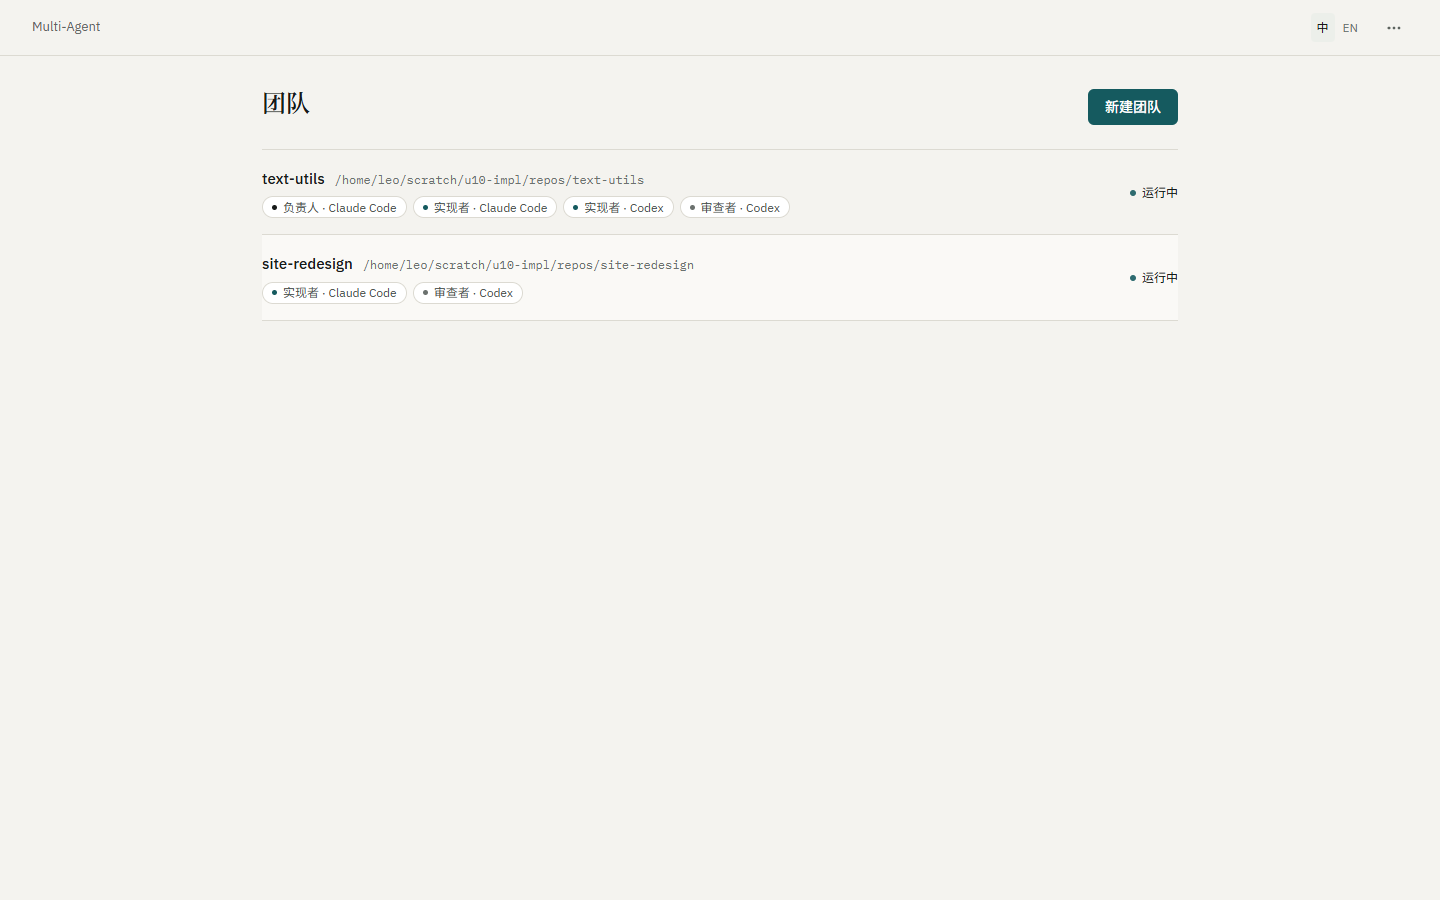
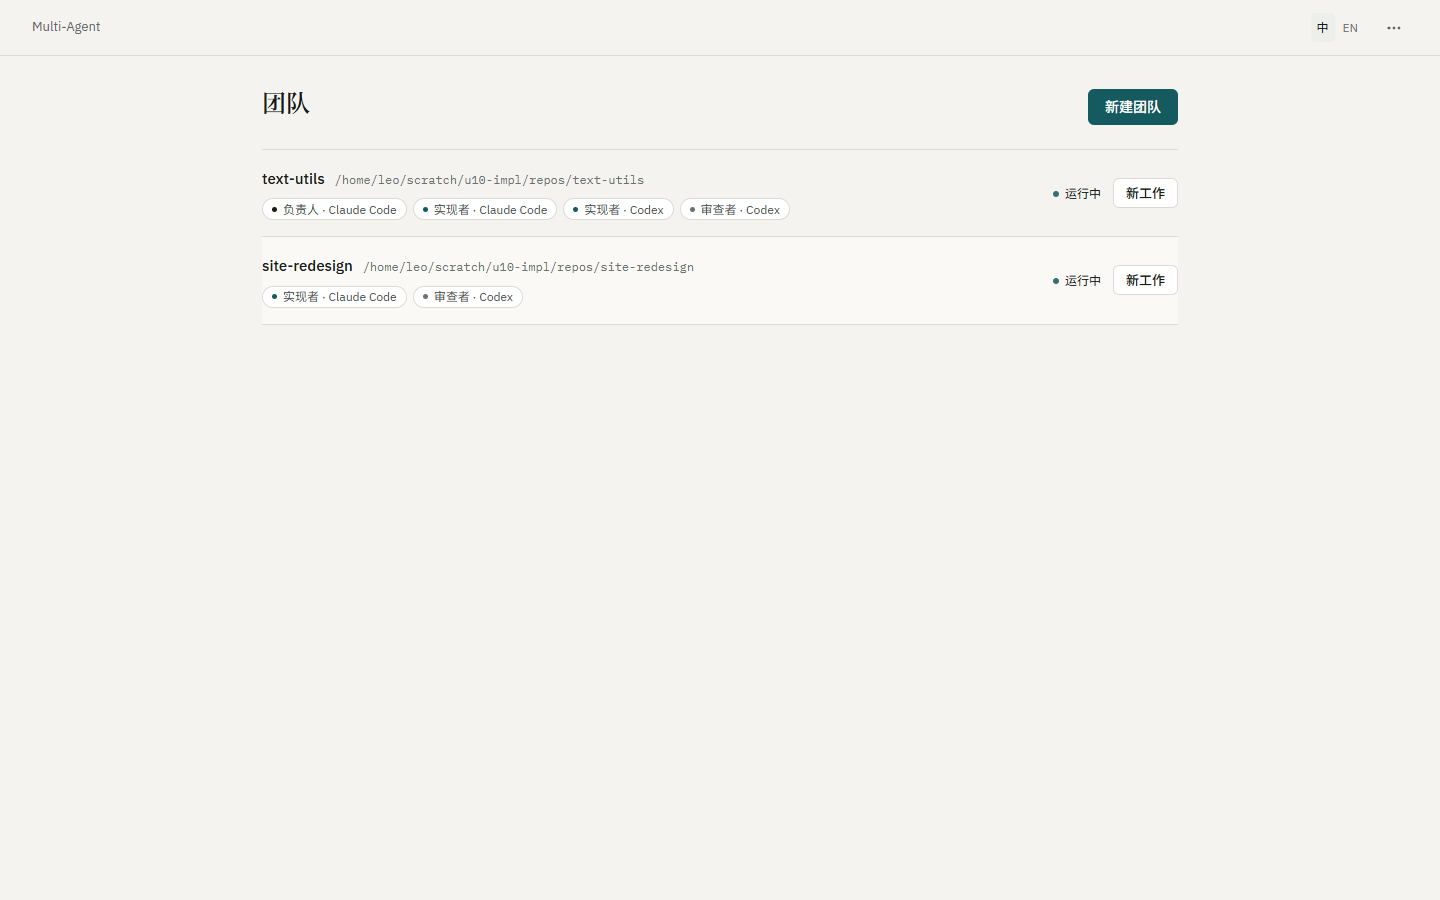
feat(ui): start new work for a team that already has a run
Opening a team always opened its latest run, so once a team had one the owner
could not start anything else from the UI. Both places that should offer it now
do:

- every team row carries 新工作 / New work, which opens the start form in a sheet
  preset to that team;
- a run screen whose work is finished (every task done) or whose run is no
  longer active carries the same entry in the bar.

The form now starts in planning when the chosen team has a lead seat, so the
lead drafts the plan in the chat and the owner approves it; a team without a
lead keeps the direct start it had. That is the `planning` flag the start route
already accepts, so no daemon change was needed.

diff --git a/engine/packages/ui/src/team/shell.tsx b/engine/packages/ui/src/team/shell.tsx
@@ -5,13 +5,16 @@ import { I18nextProvider, useTranslation } from "react-i18next";
 import { ChevronLeft, MoreHorizontal } from "./glyphs.js";
 import { OwnerReadError, OwnerSessionProvider, useOwnerSession } from "../hooks/useOwnerSession.js";
 import { useTeamRun } from "../hooks/useTeamRun.js";
+import type { TeamOwnerRead } from "@openrig/daemon/team-control";
 import { useRuns, useTeams } from "./hooks.js";
 import { TeamsScreen } from "./teams-screen.js";
 import { RunHome } from "./run-home.js";
 import { TaskScreen } from "./task-screen.js";
 import { BranchScreen } from "./branch-screen.js";
 import { SettingsScreen } from "./settings.js";
-import { StartRunForm } from "./new-task.js";
+import { StartRunForm, NewWorkSheet } from "./new-task.js";
+import { isFinished } from "./display.js";
+import { isRunActive } from "./clients.js";
 import { useThemePreference } from "./theme.js";
 import "./fonts.js";
 import "./team.css";
@@ -79,11 +82,12 @@ export function Pairing() {
  * The frame itself: a 56px bar and the screen below it. It holds no data and no router, so the
  * same frame serves the browser, the desktop wrapper and the tests.
  */
-export function ShellFrame({ language, crumbs, onLanguage, onSettings, children }: {
+export function ShellFrame({ language, crumbs, onLanguage, onSettings, action, children }: {
   language: InterfaceI18n;
   crumbs: ReactNode;
   onLanguage: (next: "zh-CN" | "en") => void;
   onSettings: () => void;
+  action?: ReactNode;
   children: ReactNode;
 }) {
   const { t } = useTranslation();
@@ -91,6 +95,7 @@ export function ShellFrame({ language, crumbs, onLanguage, onSettings, children 
     <header className="topbar">
       <div className="crumbs">{crumbs}</div>
       <div className="topbar-right">
+        {action}
         <div className="lang" role="group" aria-label={t("team.settings.language")}>
           <button aria-pressed={language.language === "zh-CN"} onClick={() => onLanguage("zh-CN")}>中</button>
           <button aria-pressed={language.language === "en"} onClick={() => onLanguage("en")}>EN</button>
@@ -100,6 +105,19 @@ export function ShellFrame({ language, crumbs, onLanguage, onSettings, children 
     </header>
     {children}
   </div>;
+}
+
+/**
+ * Whether the run screen offers the next run.
+ *
+ * The run itself stays "approved" after its work finishes and after a merge, so the state alone
+ * cannot say the run is done: an active run with open tasks is the only case that hides the
+ * entry, because that is the only case where the team is already busy.
+ */
+export function showsNewWork(read?: TeamOwnerRead): boolean {
+  if (!read) return false;
+  if (!isRunActive(read.run)) return true;
+  return read.tasks.length > 0 && read.tasks.every(task => isFinished(task));
 }
 
 function ManagedShell({ language, onLanguage }: { language: InterfaceI18n; onLanguage: (next: "zh-CN" | "en") => void }) {
@@ -143,8 +161,19 @@ function ManagedShell({ language, onLanguage }: { language: InterfaceI18n; onLan
     </>}
   </>;
 
+  const [newWork, setNewWork] = useState(false);
+  // A run that is no longer doing work offers the next one: the owner can keep a team busy
+  // without starting from the teams list.
+  const canStartWork = showsNewWork(read) && runId !== "";
+
   const frame = (children: ReactNode) => <ShellFrame language={language} crumbs={crumbs}
-    onLanguage={onLanguage} onSettings={() => go("settings")}>{children}</ShellFrame>;
+    onLanguage={onLanguage} onSettings={() => go("settings")}
+    action={canStartWork ? <button className="btn btn-quiet" style={{ fontSize: 13 }}
+      onClick={() => setNewWork(true)}>{t("team.teams.newWork")}</button> : undefined}>
+    {children}
+    {canStartWork && <NewWorkSheet teams={teams.data} teamId={read!.run.rigId} open={newWork}
+      onOpenChange={setNewWork} onStarted={nextRun => { setNewWork(false); go("run", { run: nextRun, task: undefined }); }} />}
+  </ShellFrame>;
 
   if (!paired) return frame(<Pairing />);
   if (section === "settings") return frame(<SettingsScreen language={language} connection={connection}
@@ -152,7 +181,8 @@ function ManagedShell({ language, onLanguage }: { language: InterfaceI18n; onLan
     onClose={() => go("teams", { run: undefined, task: undefined })} />);
 
   if (section === "teams") return frame(<TeamsScreen teams={teams.data} runs={runs.data}
-    loading={teams.isPending} onOpenTeam={teamId => go("run", { run: latestRunId(runs.data, teamId), task: undefined })} />);
+    loading={teams.isPending} onOpenTeam={teamId => go("run", { run: latestRunId(runs.data, teamId), task: undefined })}
+    onOpenRun={nextRun => go("run", { run: nextRun, task: undefined })} />);
 
   if (!runId) {
     return frame(<div className="page page-narrow" style={{ paddingTop: 48 }}>

diff --git a/engine/packages/ui/src/team/__tests__/new-task.test.tsx b/engine/packages/ui/src/team/__tests__/new-task.test.tsx
@@ -1,7 +1,7 @@
 import React from "react";
 import { fireEvent, render, screen, waitFor } from "@testing-library/react";
 import { QueryClient, QueryClientProvider } from "@tanstack/react-query";
-import { describe, expect, it, vi } from "vitest";
+import { beforeEach, describe, expect, it, vi } from "vitest";
 import { createInterfaceI18n } from "@openrig/i18n";
 import { I18nextProvider } from "react-i18next";
 import { StartRunForm } from "../new-task.js";
@@ -17,35 +17,61 @@ vi.mock("../../hooks/useOwnerSession.js", () => ({
   OwnerSessionProvider: ({ children }: { children: React.ReactNode }) => children,
 }));
 
-const teams: TeamSummary[] = [
+const withLead: TeamSummary[] = [
   { id: "rig-01M6P2CGXVE037YT9C19K76PWK", name: "Text utils", repository: "/src/text-utils",
     seats: [{ role: "lead", client: "claude-code" }, { role: "implementer", client: "codex" }] },
 ];
+const withoutLead: TeamSummary[] = [
+  { id: "rig-01M6PCBFR46AZS672KPX5Z38ZM", name: "Site", repository: "/src/site",
+    seats: [{ role: "implementer", client: "claude-code" }, { role: "reviewer", client: "codex" }] },
+];
 
-async function show() {
+async function show(teams: TeamSummary[], presetTeamId?: string) {
   const language = await createInterfaceI18n({ language: "en" });
   const client = new QueryClient({ defaultOptions: { queries: { retry: false } } });
   const started = vi.fn();
   render(<QueryClientProvider client={client}><I18nextProvider i18n={language.instance}>
-    <StartRunForm teams={teams} onStarted={started} />
+    <StartRunForm teams={teams} presetTeamId={presetTeamId} onStarted={started} />
   </I18nextProvider></QueryClientProvider>);
   return { started };
 }
 
+async function start(goal: string) {
+  fireEvent.change(screen.getByLabelText("What should the team do?"), { target: { value: goal } });
+  fireEvent.click(screen.getByRole("button", { name: "Start task" }));
+  await waitFor(() => expect(request).toHaveBeenCalled());
+  const [path, init] = request.mock.calls[0] as unknown as [string, RequestInit];
+  expect(path).toBe("/runs");
+  return JSON.parse(String(init.body)) as Record<string, unknown>;
+}
+
 describe("new task", () => {
-  it("starts a run with the goal and the chosen team", async () => {
-    const { started } = await show();
-    fireEvent.change(screen.getByLabelText("What should the team do?"), { target: { value: "Add the status filter" } });
-    fireEvent.click(screen.getByRole("button", { name: "Start task" }));
-    await waitFor(() => expect(request).toHaveBeenCalled());
-    const [path, init] = request.mock.calls[0] as unknown as [string, RequestInit];
-    expect(path).toBe("/runs");
-    expect(JSON.parse(String(init.body))).toEqual({ goal: "Add the status filter", rig: teams[0]!.id });
+  beforeEach(() => request.mockClear());
+
+  it("starts a planning run when the team has a lead, so the lead drafts the plan", async () => {
+    const { started } = await show(withLead);
+    const body = await start("Add the status filter");
+    expect(body).toEqual({ goal: "Add the status filter", rig: withLead[0]!.id, planning: true });
     await waitFor(() => expect(started).toHaveBeenCalledWith("3f2b0c9e-0d1a-4c5b-8f2e-1a2b3c4d5e6f"));
   });
 
+  it("keeps the direct start for a team with no lead seat", async () => {
+    await show(withoutLead);
+    const body = await start("Ship the site");
+    expect(body).toEqual({ goal: "Ship the site", rig: withoutLead[0]!.id });
+    expect(body).not.toHaveProperty("planning");
+  });
+
+  it("presets the team the owner chose", async () => {
+    await show([...withLead, ...withoutLead], withoutLead[0]!.id);
+    const select = screen.getByLabelText("Teams") as HTMLSelectElement;
+    expect(select.value).toBe(withoutLead[0]!.id);
+    const body = await start("Ship the site");
+    expect(body.rig).toBe(withoutLead[0]!.id);
+  });
+
   it("keeps the start button closed until there is a goal", async () => {
-    await show();
+    await show(withLead);
     expect((screen.getByRole("button", { name: "Start task" }) as HTMLButtonElement).disabled).toBe(true);
   });
 });

diff --git a/engine/packages/ui/src/team/new-task.tsx b/engine/packages/ui/src/team/new-task.tsx
@@ -1,8 +1,9 @@
 import { useState } from "react";
 import { useTranslation } from "react-i18next";
 import { useQueryClient } from "@tanstack/react-query";
+import * as Dialog from "@radix-ui/react-dialog";
 import { OwnerReadError, useOwnerSession } from "../hooks/useOwnerSession.js";
-import { Caret } from "./glyphs.js";
+import { Caret, Close } from "./glyphs.js";
 import { runsKey, type TeamSummary } from "./hooks.js";
 
 /**
@@ -10,12 +11,14 @@ import { runsKey, type TeamSummary } from "./hooks.js";
  *
  * The same owner endpoint `rig team start` calls: the goal is the only required field, and the
  * team it runs on is chosen from the teams the daemon lists, so nobody types an id. A refused
- * start shows the daemon's own reason. Under U5 the same form opens a planning chat instead of
- * dispatching straight away; that is one flag on this request, which is why the form does not
- * grow a second shape.
+ * start shows the daemon's own reason.
+ *
+ * A team with a lead seat starts in planning: the lead drafts the plan in the chat and the owner
+ * approves it (U5). A team without one keeps the direct start, because there is nobody to plan
+ * with. Both are the same request with one flag.
  */
-export function StartRunForm({ teams, onStarted }: {
-  teams: TeamSummary[] | undefined; onStarted: (runId: string) => void;
+export function StartRunForm({ teams, presetTeamId, onStarted }: {
+  teams: TeamSummary[] | undefined; presetTeamId?: string; onStarted: (runId: string) => void;
 }) {
   const { t } = useTranslation();
   const session = useOwnerSession();
@@ -25,7 +28,8 @@ export function StartRunForm({ teams, onStarted }: {
   const [busy, setBusy] = useState(false);
   const [failure, setFailure] = useState<string | null>(null);
 
-  const chosen = team || teams?.[0]?.id || "";
+  const chosen = team || presetTeamId || teams?.[0]?.id || "";
+  const hasLead = (teams ?? []).some(entry => entry.id === chosen && entry.seats.some(seat => seat.role === "lead"));
 
   return <section className="plate" aria-label={t("web.newTask")}>
     <h2 className="plate-title">{t("web.newTask")}</h2>
@@ -36,7 +40,7 @@ export function StartRunForm({ teams, onStarted }: {
       try {
         const receipt = await session.request<{ runId: string }>("/runs", {
           method: "POST", headers: { "Content-Type": "application/json" },
-          body: JSON.stringify({ goal: goal.trim(), ...(chosen ? { rig: chosen } : {}) }),
+          body: JSON.stringify({ goal: goal.trim(), ...(chosen ? { rig: chosen } : {}), ...(hasLead ? { planning: true } : {}) }),
         });
         if (!receipt?.runId) throw new Error("no run");
         await cache.invalidateQueries({ queryKey: runsKey });
@@ -66,4 +70,28 @@ export function StartRunForm({ teams, onStarted }: {
       </div>
     </form>
   </section>;
+}
+
+/**
+ * The same form as a sheet, so "new work" can open from the teams list and from a run that has
+ * finished without navigating away. The sheet is not portalled: the shell's own element carries
+ * the styles, and a fixed overlay renders correctly where it is declared.
+ */
+export function NewWorkSheet({ teams, teamId, open, onOpenChange, onStarted }: {
+  teams: TeamSummary[] | undefined; teamId: string; open: boolean;
+  onOpenChange: (open: boolean) => void; onStarted: (runId: string) => void;
+}) {
+  const { t } = useTranslation();
+  return <Dialog.Root open={open} onOpenChange={onOpenChange}>
+    <Dialog.Overlay className="scrim" />
+    <Dialog.Content className="sheet" aria-label={t("team.teams.newWork")}>
+      <header className="sheet-head">
+        <Dialog.Title className="display" style={{ fontSize: 20, margin: 0 }}>{t("team.teams.newWork")}</Dialog.Title>
+        <Dialog.Close className="more" aria-label={t("team.create.close")}><Close /></Dialog.Close>
+      </header>
+      <div className="sheet-body">
+        <StartRunForm teams={teams} presetTeamId={teamId} onStarted={runId => { onOpenChange(false); onStarted(runId); }} />
+      </div>
+    </Dialog.Content>
+  </Dialog.Root>;
 }

diff --git a/engine/packages/ui/src/team/teams-screen.tsx b/engine/packages/ui/src/team/teams-screen.tsx
@@ -6,6 +6,7 @@ import type { TeamRole } from "@openrig/daemon/team-control";
 import { OwnerReadError, useOwnerSession } from "../hooks/useOwnerSession.js";
 import { isRunActive } from "./clients.js";
 import { clientLabel } from "./display.js";
+import { NewWorkSheet } from "./new-task.js";
 import { Caret, Close } from "./glyphs.js";
 import { runsKey, teamsKey, type RunSummary, type TeamSeatSummary, type TeamSummary } from "./hooks.js";
 
@@ -20,12 +21,13 @@ import { runsKey, teamsKey, type RunSummary, type TeamSeatSummary, type TeamSumm
 const ROLES: readonly TeamRole[] = ["lead", "implementer", "reviewer"];
 const CLIENTS = ["claude-code", "codex"] as const;
 
-export function TeamsScreen({ teams, runs, loading, onOpenTeam }: {
+export function TeamsScreen({ teams, runs, loading, onOpenTeam, onOpenRun }: {
   teams: TeamSummary[] | undefined; runs: RunSummary[] | undefined; loading: boolean;
-  onOpenTeam: (teamId: string) => void;
+  onOpenTeam: (teamId: string) => void; onOpenRun: (runId: string) => void;
 }) {
   const { t } = useTranslation();
   const [creating, setCreating] = useState(false);
+  const [newWorkFor, setNewWorkFor] = useState<string | null>(null);
   const host = useRef<HTMLDivElement>(null);
   return <div className="page" ref={host}>
     <div className="page-head">
@@ -38,19 +40,23 @@ export function TeamsScreen({ teams, runs, loading, onOpenTeam }: {
         ? <p className="muted">{t("team.teams.empty")}</p>
         : <div className="team-list">{teams!.map(team => {
           const run = (runs ?? []).find(entry => entry.rigId === team.id);
-          return <a key={team.id} className="team-row" href="#"
-            onClick={event => { event.preventDefault(); onOpenTeam(team.id); }}>
-            <div>
+          return <div key={team.id} className="team-row">
+            <a className="team-main" href="#" onClick={event => { event.preventDefault(); onOpenTeam(team.id); }}>
               <div><span className="team-name">{team.name}</span><span className="team-path">{team.repository}</span></div>
               <div className="seats">{team.seats.map((seat, index) => <SeatChip key={`${seat.role}:${index}`} seat={seat} />)}</div>
+            </a>
+            <div className="team-side">
+              <div className="team-run" data-state={run && isRunActive(run) ? "running" : "idle"}>
+                <span className="run-dot" />{run && isRunActive(run) ? t("team.teams.running") : t("team.teams.idle")}
+              </div>
+              <button className="btn btn-outline team-new-work" onClick={() => setNewWorkFor(team.id)}>{t("team.teams.newWork")}</button>
             </div>
-            <div className="team-run" data-state={run && isRunActive(run) ? "running" : "idle"}>
-              <span className="run-dot" />{run && isRunActive(run) ? t("team.teams.running") : t("team.teams.idle")}
-            </div>
-          </a>;
+          </div>;
         })}</div>}
 
     <CreateTeamSheet open={creating} onOpenChange={setCreating} container={host.current} />
+    <NewWorkSheet teams={teams} teamId={newWorkFor ?? ""} open={newWorkFor !== null}
+      onOpenChange={next => { if (!next) setNewWorkFor(null); }} onStarted={onOpenRun} />
   </div>;
 }
 

diff --git a/engine/packages/ui/src/team/__tests__/teams.test.tsx b/engine/packages/ui/src/team/__tests__/teams.test.tsx
@@ -27,11 +27,12 @@ const runs: RunSummary[] = [
 async function show(locale: "en" | "zh-CN" = "en") {
   const language = await createInterfaceI18n({ language: locale });
   const opened = vi.fn();
+  const openedRun = vi.fn();
   const client = new QueryClient({ defaultOptions: { queries: { retry: false } } });
   render(<QueryClientProvider client={client}><I18nextProvider i18n={language.instance}>
-    <TeamsScreen teams={teams} runs={runs} loading={false} onOpenTeam={opened} />
+    <TeamsScreen teams={teams} runs={runs} loading={false} onOpenTeam={opened} onOpenRun={openedRun} />
   </I18nextProvider></QueryClientProvider>);
-  return opened;
+  return { opened, openedRun };
 }
 
 describe("teams", () => {
@@ -47,9 +48,19 @@ describe("teams", () => {
   });
 
   it("opens the team's run when the row is chosen", async () => {
-    const opened = await show();
+    const { opened } = await show();
     fireEvent.click(screen.getByText("text-utils"));
     expect(opened).toHaveBeenCalledWith("01M6PCBFR46AZS672KPX5Z38ZM");
+  });
+
+  it("offers new work per team, preset to that team, even when it already has a run", async () => {
+    const { opened, openedRun } = await show();
+    expect(screen.getAllByRole("button", { name: "New work" })).toHaveLength(1);
+    fireEvent.click(screen.getByRole("button", { name: "New work" }));
+    expect(await screen.findByLabelText("What should the team do?")).toBeTruthy();
+    expect((screen.getByLabelText("Teams") as HTMLSelectElement).value).toBe(teams[0]!.id);
+    expect(opened).not.toHaveBeenCalled();
+    expect(openedRun).not.toHaveBeenCalled();
   });
 
   it("opens the create sheet with one seat per role", async () => {

diff --git a/engine/packages/ui/src/team/__tests__/shell.test.tsx b/engine/packages/ui/src/team/__tests__/shell.test.tsx
@@ -3,7 +3,8 @@ import { fireEvent, render, screen } from "@testing-library/react";
 import { describe, expect, it, vi } from "vitest";
 import { createInterfaceI18n } from "@openrig/i18n";
 import { I18nextProvider } from "react-i18next";
-import { ShellFrame, TEAM_SECTIONS, teamSection } from "../shell.js";
+import { ShellFrame, TEAM_SECTIONS, teamSection, showsNewWork } from "../shell.js";
+import { read, task } from "./fixtures.js";
 
 /**
  * U10 — the shell is a bar, not a rail.
@@ -60,5 +61,15 @@ describe("team shell", () => {
     expect(view.container.querySelector("video")).toBeNull();
     expect(view.container.querySelector(".team-backdrop")).toBeNull();
     expect(view.container.querySelector(".team-shell")!.getAttribute("data-ui-theme")).toBeNull();
+  });
+
+  it("offers the next run when this one is no longer doing work", () => {
+    // In flight: the team is busy, so nothing offers a second run.
+    expect(showsNewWork(read({ tasks: [task({ queueState: "in-progress" })] }))).toBe(false);
+    // Every task finished, and the run still reads "approved": the owner can start more.
+    expect(showsNewWork(read({ tasks: [task({ queueState: "done" })] }))).toBe(true);
+    // A run that ended without finishing its work also offers the next one.
+    expect(showsNewWork(read({ run: { ...read().run, state: "canceled" }, tasks: [task({ queueState: "pending" })] }))).toBe(true);
+    expect(showsNewWork(undefined)).toBe(false);
   });
 });

diff --git a/engine/packages/ui/src/team/team.css b/engine/packages/ui/src/team/team.css
@@ -276,6 +276,9 @@ body:has(.team-shell) > #root { height: 100%; }
   align-items: center; padding: var(--sp-4) 0; border-top: 1px solid var(--line);
   transition: background var(--t-fast) var(--ease);
 }
+.team-shell .team-main { display: grid; gap: 2px; min-width: 0; }
+.team-shell .team-side { display: flex; align-items: center; gap: var(--sp-3); }
+.team-shell .team-new-work { min-height: 30px; padding: 0 12px; font-size: 13px; }
 .team-shell .team-row:last-child { border-bottom: 1px solid var(--line); }
 .team-shell .team-row:hover { background: var(--surface-2); }
 .team-shell .team-name { font-size: 15px; font-weight: 500; }
@@ -472,3 +475,6 @@ body:has(.team-shell) > #root { height: 100%; }
 .team-shell .verdict-mark[data-verdict="changes-required"] { color: var(--attention); }
 .team-shell .verdict-mark svg { width: 14px; height: 14px; }
 .team-shell .detail-foot .sev { color: var(--muted); font-size: 12px; }
+
+/* A sheet holds the start form itself, so the form does not draw a second card inside it. */
+.team-shell .sheet-body .plate { border: 0; background: none; padding: 0; }
